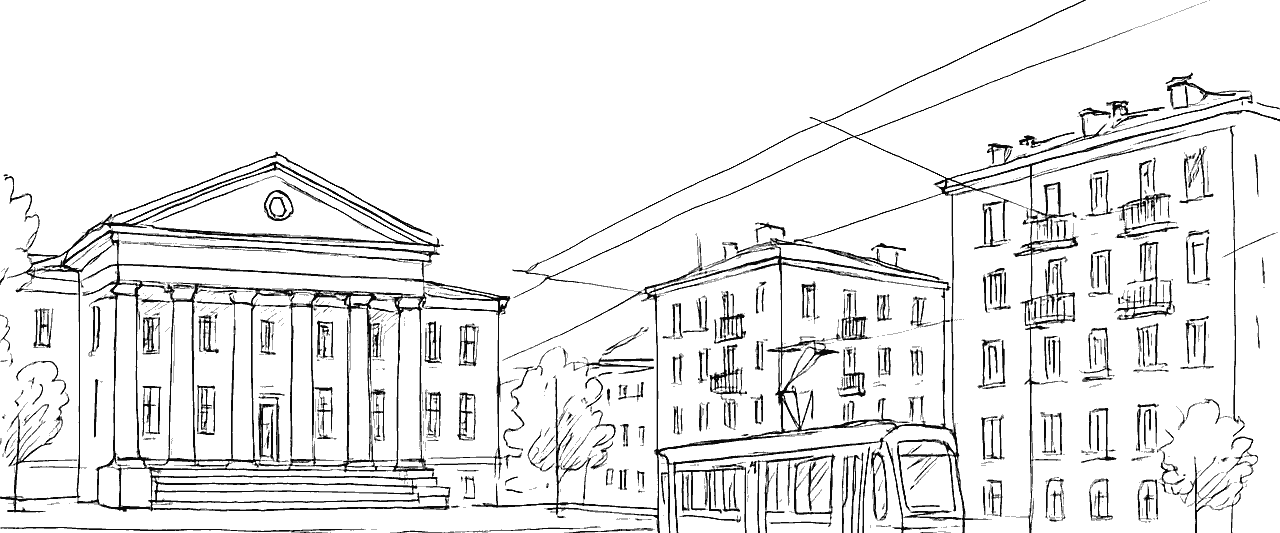
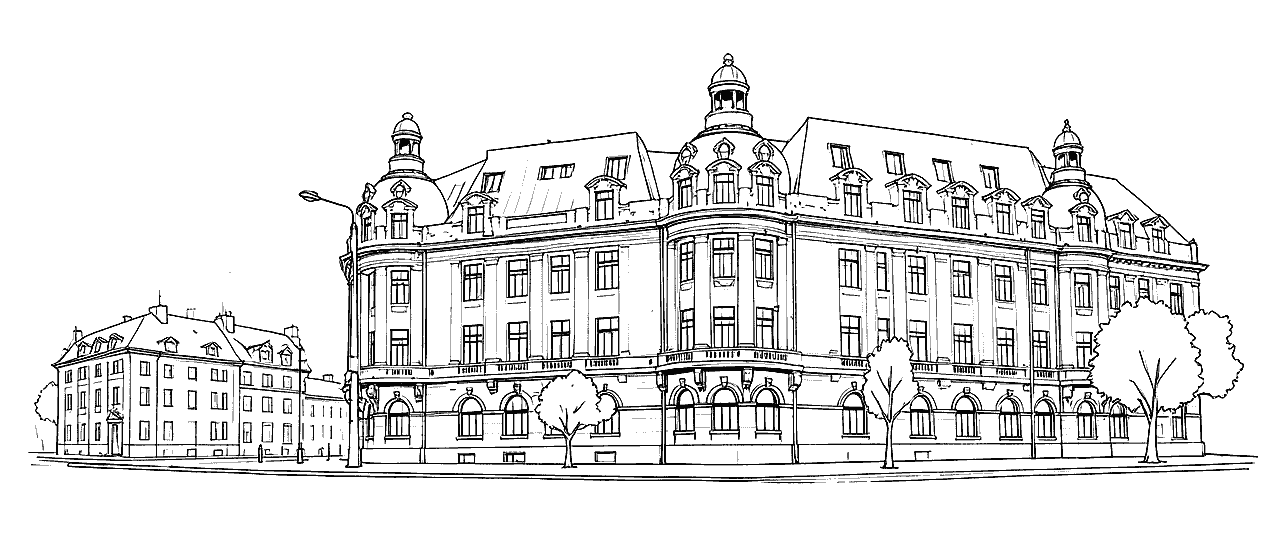
Redraw the city sketch from a real photo of the University palace
The first sketch was drawn from text alone and read as Berlin or Warsaw: a tram and blocks nobody
at UB would recognise. The new one is the domed corner on Piata Universitatii, drawn by the local
FLUX.2 klein model after Joe Mabel's photo (CC BY 3.0, credited on the About page), at the
approved stroke width. Re-locked with Marius's approval.

asset.mjs gains --photo (redraw a real place) and inkmask (sketch -> the footer's alpha PNG), and
the brief records both, so the drawing can be made again.

Changed region(s): [[0.0, 0.0901, 1.0, 1.0], [0.0, 0.3602, 0.0312, 0.4203], [0.8125, 0.0901, 0.8438, 0.1201]]

diff --git a/apps/web/src/screens/student/About.tsx b/apps/web/src/screens/student/About.tsx
@@ -7,6 +7,10 @@ import { Button, Illustration, Logo, Pattern } from '@ds';
 import { useI18n } from '../../i18n';
 import { A } from '../../assets';
 
+/* The city sketch above the home footer is drawn after this photo, CC BY 3.0: the licence asks
+   for the credit (assets/manifest.json has the full record). */
+const SKETCH_PHOTO = 'https://commons.wikimedia.org/wiki/File:Bucharest_-_Dec_2014_-_B-dul_Regina_Elisabeta_04.jpg';
+
 export function About() {
   const { t } = useI18n();
   const [, navigate] = useLocation();
@@ -43,6 +47,9 @@ export function About() {
           ))}
         </div>
         <Button fullWidth size="lg" onClick={() => (last ? done() : setI(i + 1))}>{last ? t('about.start') : t('about.next')}</Button>
+        <p style={{ marginTop: 12, fontSize: 'var(--text-sm)', color: 'var(--text-muted)', textAlign: 'center' }}>
+          <a href={SKETCH_PHOTO} target="_blank" rel="noopener noreferrer" style={{ color: 'inherit' }}>{t('about.credit')}</a>
+        </p>
       </div>
     </main>
   );

diff --git a/apps/web/src/i18n/strings.ts b/apps/web/src/i18n/strings.ts
@@ -303,6 +303,7 @@ export const ro = {
   'about.s2.body': 'Se publică de obicei până la 10:30. Îl găsești și fără internet.',
   'about.s3.title': 'Știi cât aștepți, în minute',
   'about.s3.body': 'Estimarea vine din rapoartele colegilor și îți arată mereu cât e de proaspătă.',
+  'about.credit': 'Desenul Universității de pe prima pagină e făcut după o fotografie de Joe Mabel (CC BY 3.0).',
 
   // Offline banner
   'offline.updated': 'Actualizat la {time}',
@@ -592,6 +593,7 @@ export const en: Record<StringKey, string> = {
   'about.s2.body': 'It is usually out by 10:30. You can see it offline too.',
   'about.s3.title': 'Know how long you will wait, in minutes',
   'about.s3.body': 'The estimate comes from other students’ reports and always shows how fresh it is.',
+  'about.credit': 'The drawing of the University on the home page is after a photo by Joe Mabel (CC BY 3.0).',
 
   'offline.updated': 'Updated at {time}',
 };

diff --git a/.claude/skills/ubite-design/readme.md b/.claude/skills/ubite-design/readme.md
@@ -183,7 +183,7 @@ through `Illustration` / `Pattern` so it takes token colours and follows the the
 | Flat scenes (`scenes/`) | `flat` — five flat colours | onboarding | `asset.mjs flatten` → one traced layer per colour, each filled with `var(--token)` |
 | Pictograms (`picto/`) | `picto` — outline + one fill | menu category pills | `asset.mjs picto` → outline in `currentColor`, fill in `--accent` |
 | Doodle wallpaper (`patterns/canteen.svg`) | `doodles` — sheets of small doodles | splash, onboarding, kiosk | `asset.mjs pattern` → seamless tile, CSS mask at 6–8% |
-| City sketch (`sketch-city.png`) | `sketch` | above the footer | 4-colour alpha PNG, CSS mask at 35% in `--text-muted` |
+| City sketch (`sketch-city.png`) | `sketch` + `--photo` — the University palace, drawn after a real photo | above the footer | `asset.mjs inkmask` → 4-colour alpha PNG, CSS mask at 35% in `--text-muted`; the photo is credited on the About page |
 
 Characters are people, drawn — never photographs of people. Illustrations never carry
 information: the level, the wait and the menu are always in words and figures beside them.

diff --git a/docs/24-running-the-app.md b/docs/24-running-the-app.md
@@ -51,7 +51,7 @@ The kiosk is `/kiosk` (rotation) and `/kiosk/attract` (the 11-second loop).
 ```bash
 npm run typecheck
 npm run lint          # oxlint + no raw colours or fonts outside the design-system tokens
-npm test              # shared (9) · api (91: fusion, simulated service day, ledger, receipts, HTTP) · web (6)
+npm test              # shared (11) · api (92: fusion, simulated service day, ledger, receipts, HTTP) · web (6)
 npm run build
 npm run assets:check  # the locked style and the asset manifest
 npm run screens       # screenshots of every surface into dist/screens (R1/R2 evidence)
